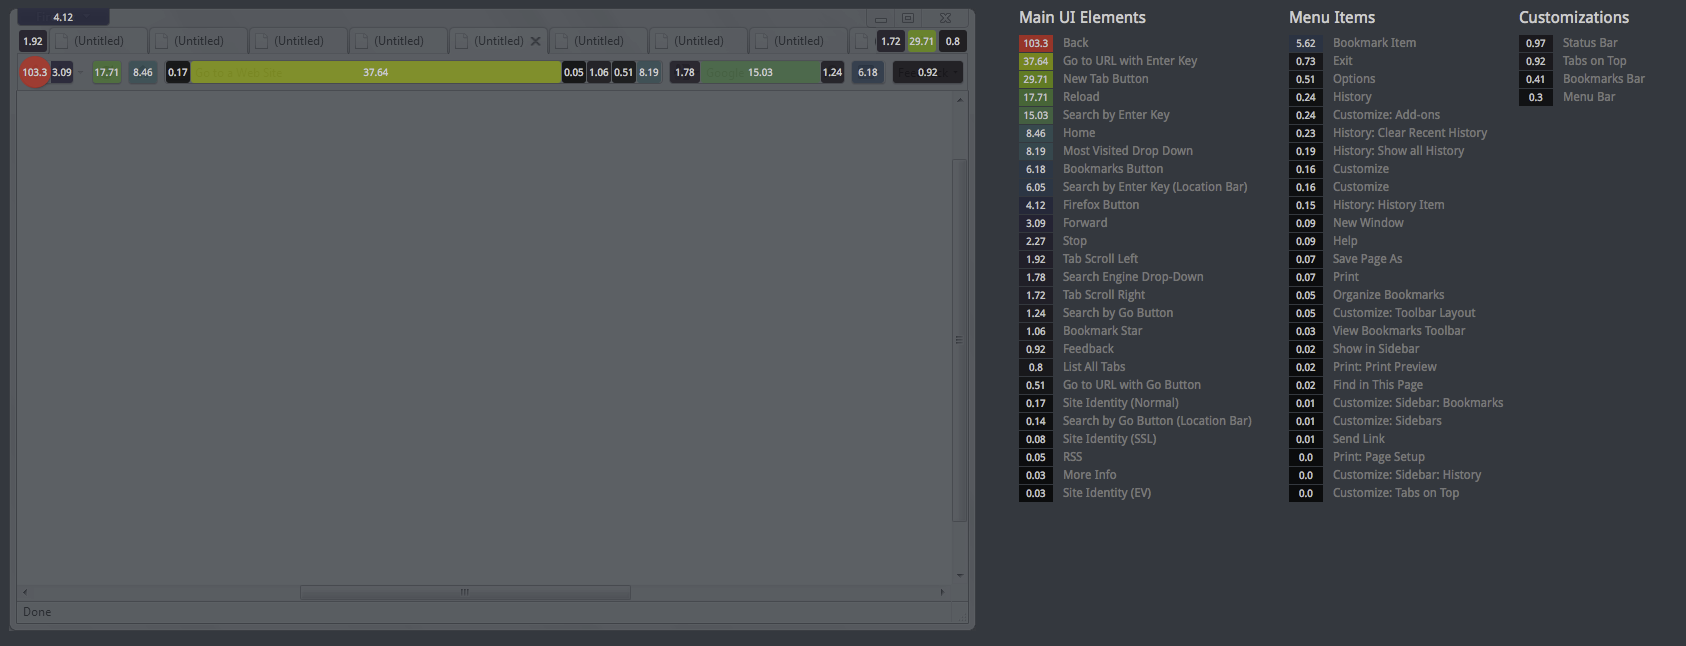
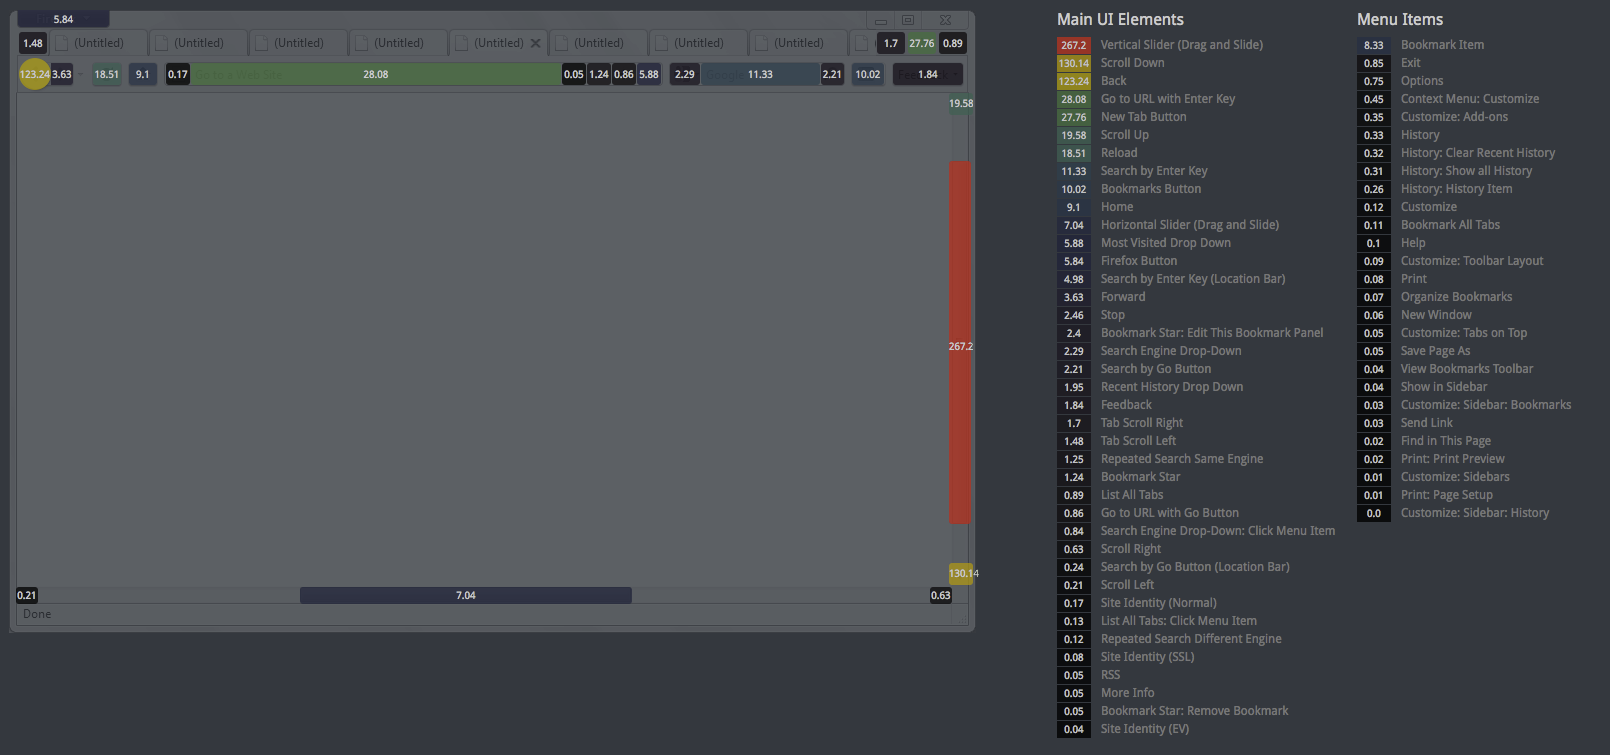
fixed bug in perc bar order

Changed region(s): [[0.0, 0.0, 0.9627, 0.9907], [0.1863, 0.774, 0.4037, 0.805], [0.0, 0.774, 0.0311, 0.805]]

diff --git a/django_templates/heatmap.html b/django_templates/heatmap.html
@@ -7,7 +7,7 @@
 
 {% block filters %}
 	<ul>
-		<li><a href='heatmap?s={{ skill }}' class="button left {% if show_perc %}active{% endif %}">Used by x% of users</a></li>
+		<li><a href='heatmap?s={{ skill }}' class="button left {% if show_perc %}active{% endif %}">Percent used by</a></li>
 		<li><a href='?d=freq&s={{ skill }}' class="button right {% if not show_perc %}active{% endif %}">Clicks per user</a></li>
 	</ul> 
 	

diff --git a/django_projects/metrics/dashboard/views.py b/django_projects/metrics/dashboard/views.py
@@ -83,9 +83,9 @@ def heatmap(request):
 			item.hover += '<div style="height: 4px;"></div>'
 			item.hover += '<div style="background-color:' + item_advanced.heat_perc() +'; height: 15px; width:' + str(advanced) + '; padding-left: 2px;">' + str(advanced) + '</div>'
 			item.hover += '<div style="height: 3px;"></div>'
-			item.hover += '<div style="background-color:' + item_intermediate.heat_perc() +'; height: 15px; width:' + str(beginner) + '; padding-left: 2px;">' + str(beginner) + '</div>'
+			item.hover += '<div style="background-color:' + item_intermediate.heat_perc() +'; height: 15px; width:' + str(intermediate) + '; padding-left: 2px;">' + str(intermediate) + '</div>'
 			item.hover += '<div style="height: 3px;"></div>'
-			item.hover += '<div style="background-color:' + item_beginner.heat_perc() +'; height: 15px; width:' + str(intermediate) + '; padding-left: 2px;">' + str(intermediate) + '</div>'						
+			item.hover += '<div style="background-color:' + item_beginner.heat_perc() +'; height: 15px; width:' + str(beginner) + '; padding-left: 2px;">' + str(beginner) + '</div>'						
 			item.hover += '</div>'
 			item.hover += '<div style="height: 0px; clear: both;"></div>'
 		else:
@@ -98,8 +98,6 @@ def heatmap(request):
 			item.hover += str(beginner)			
 			item.hover += '</div>' 						
 			item.hover += '<div style="height: 0px; clear: both;"></div>'
-		
-		
 		
 		if data == 'freq':
 			item.stat = item.clicks_per_user
